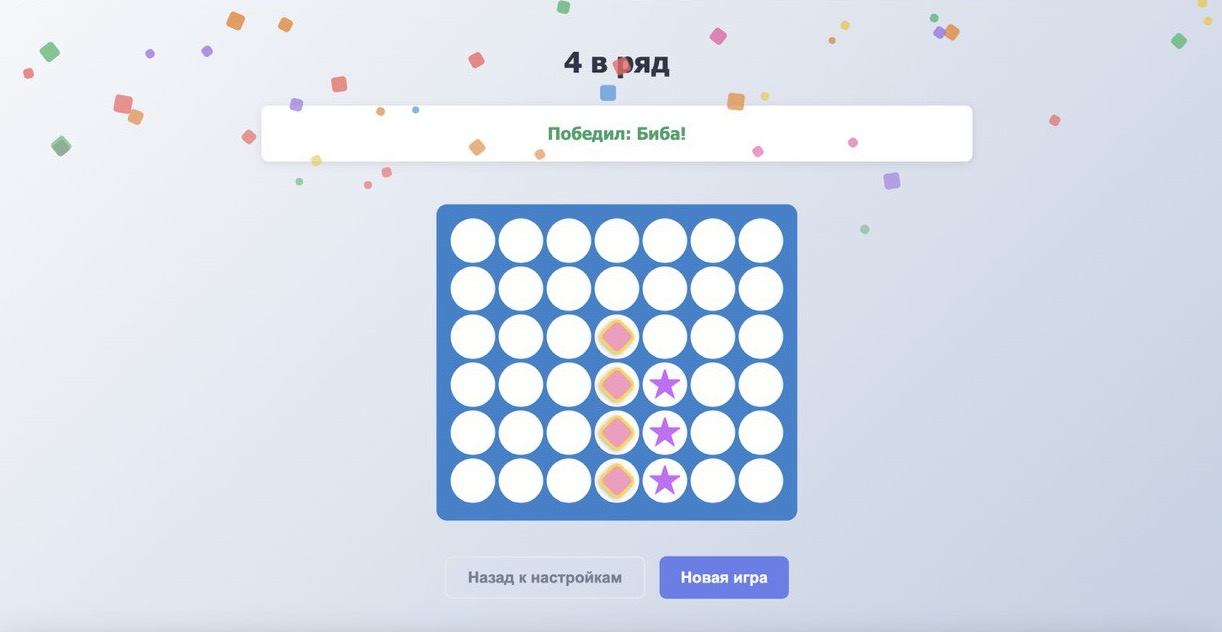
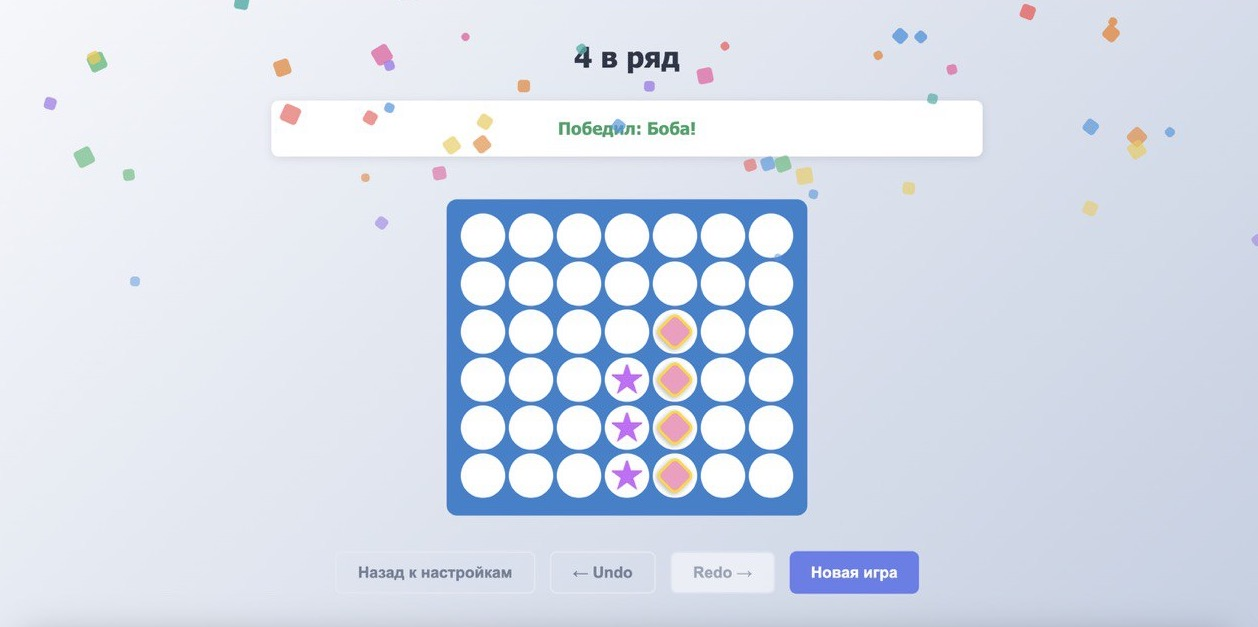
В README.md добавлены Undo/Redo

diff --git a/README.md b/README.md
@@ -74,7 +74,7 @@ npm run dev
 
 #### 🎲 `/game`
 Основное поле **7×6**  
-Отображается текущий игрок и его фигурка, есть возможность вернуться к настройкам или начать новую игру
+Отображается текущий игрок и его фигурка, есть возможность отменить ход или вернуть его назад (**Undo / Redo**), а также вернуться к настройкам или начать новую игру
 
 ![Game Page](public/screenshots/game.jpeg)
  
@@ -95,9 +95,11 @@ npm run dev
 
 ### 💡 Сильные стороны проекта
 
-- **React Router** — для приятного пользовательского опыта (SPA)
+- **React Router** для приятного пользовательского опыта (SPA)
 
 - **Кастомизация игроков** — уникальные настройки для каждого участника
+
+- **Undo / Redo** — возможность отмены / повтора
 
 - **Типизация** через as const и typeof array[number] 
 
